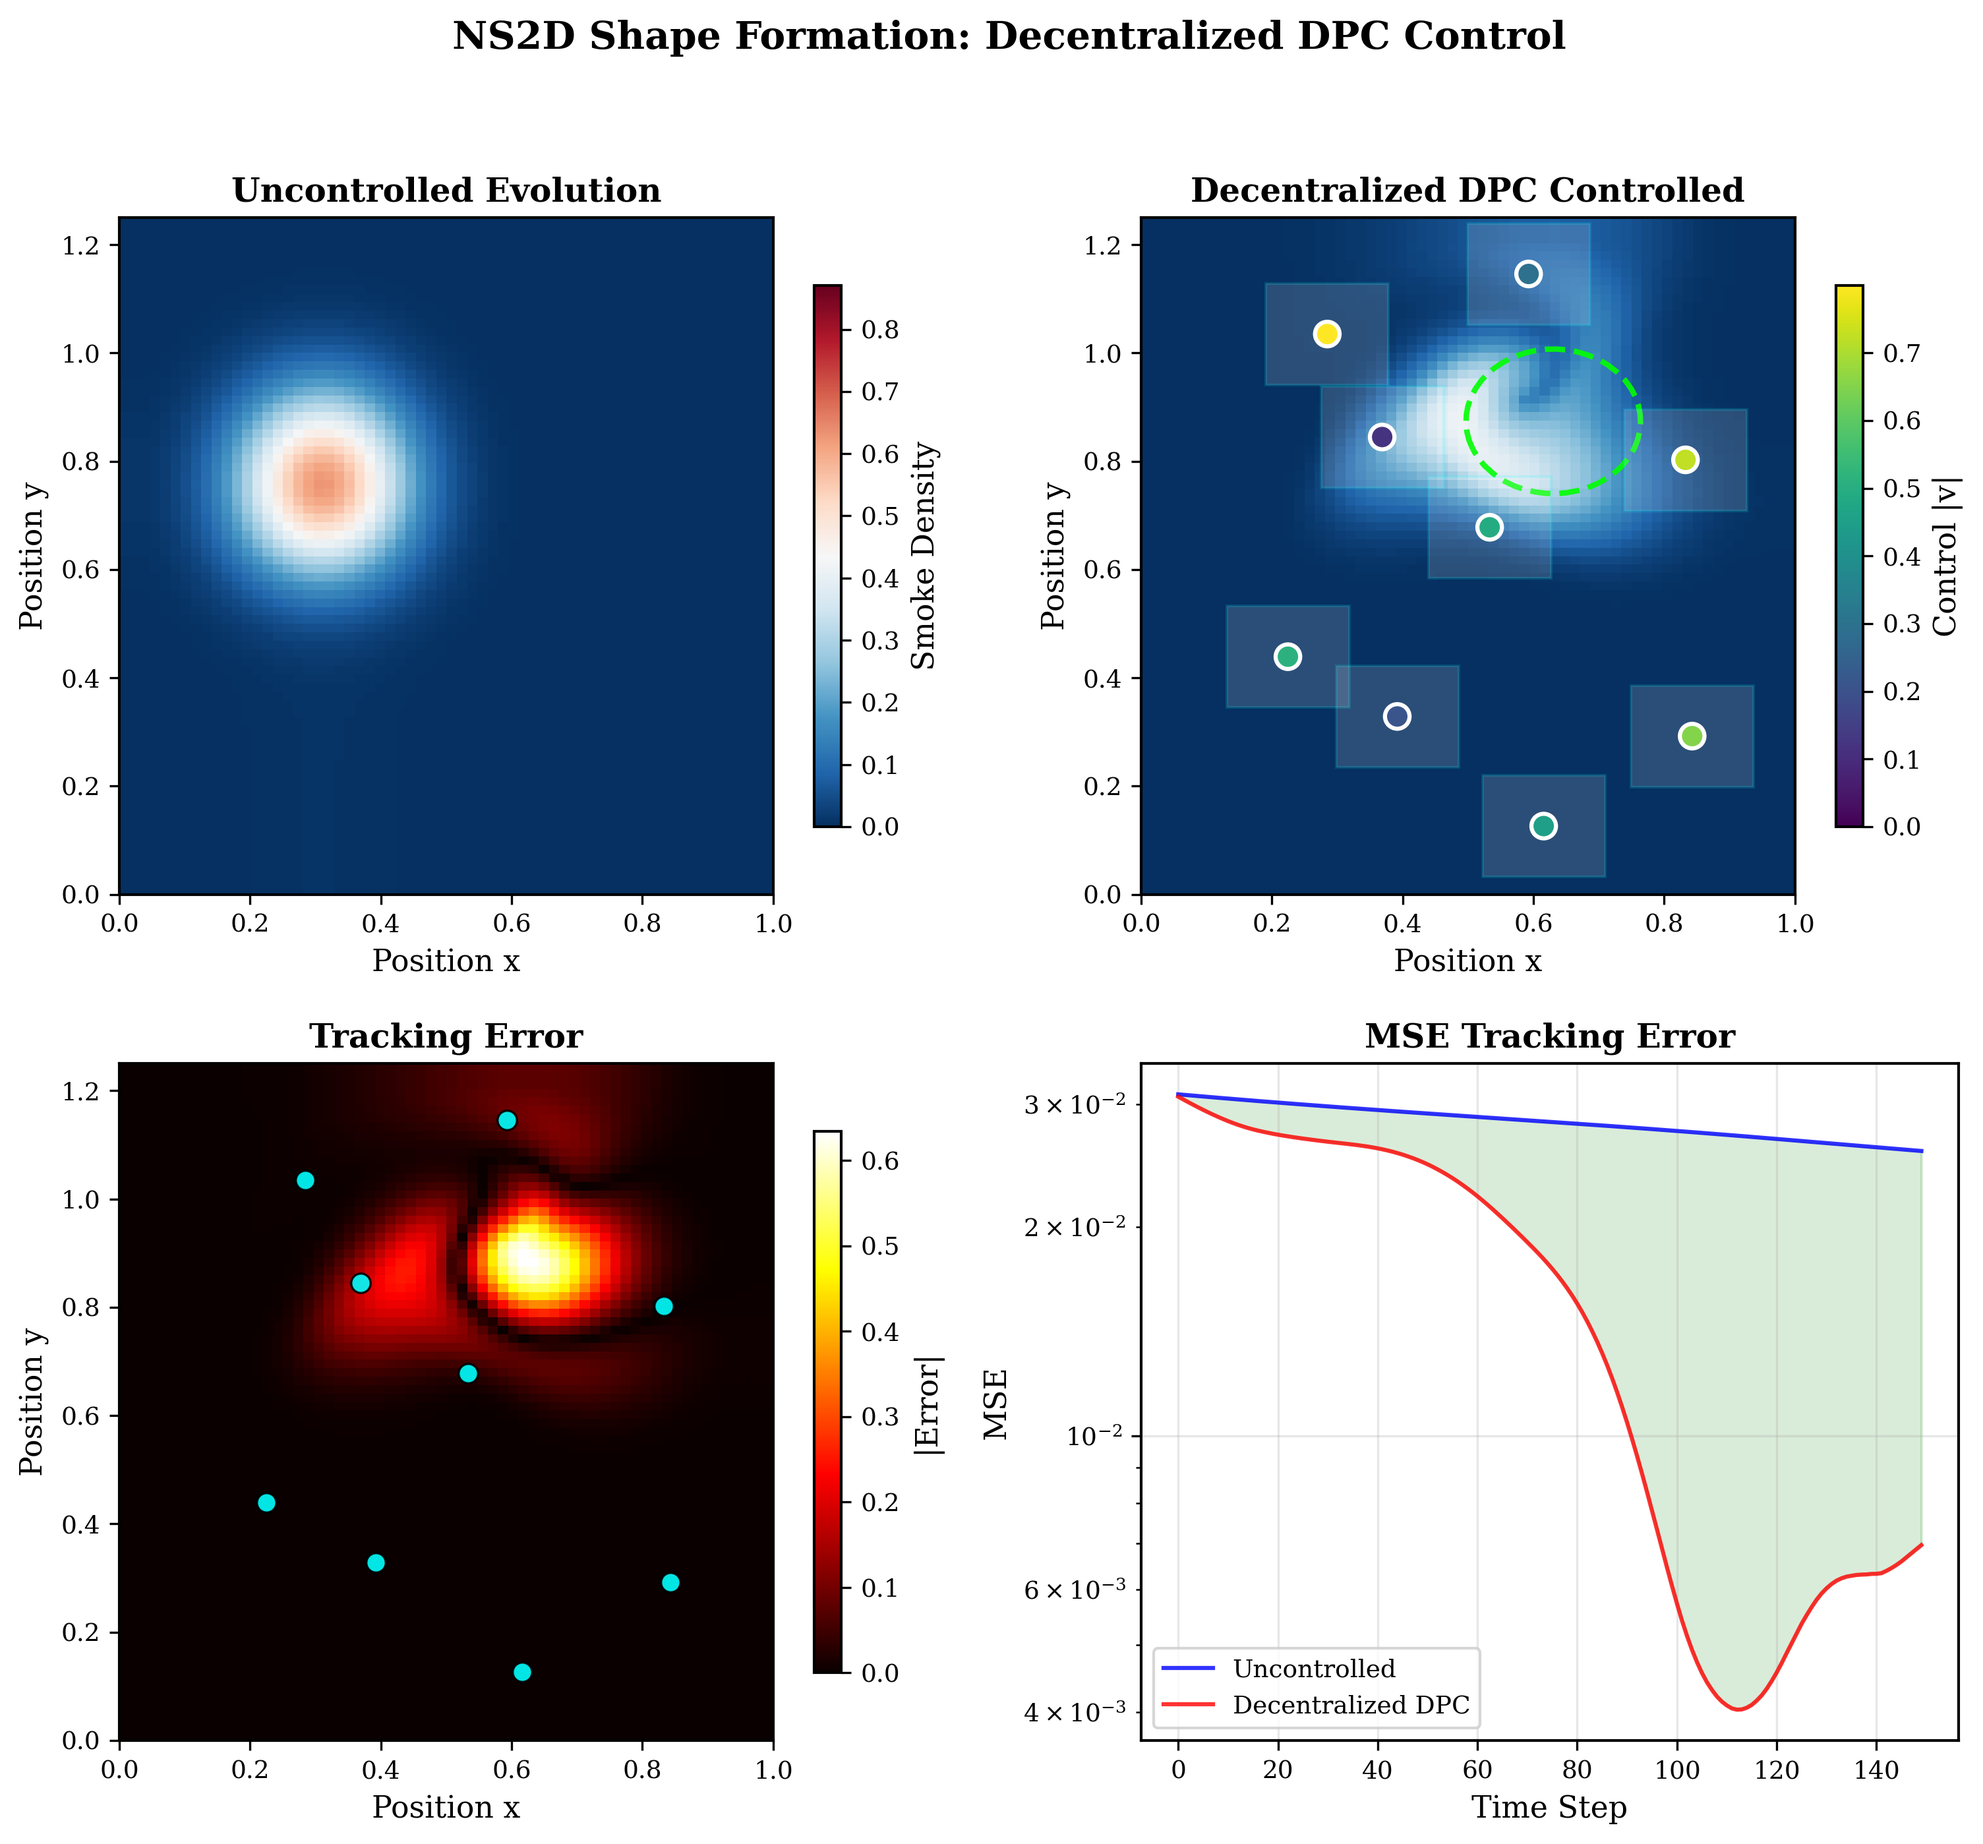
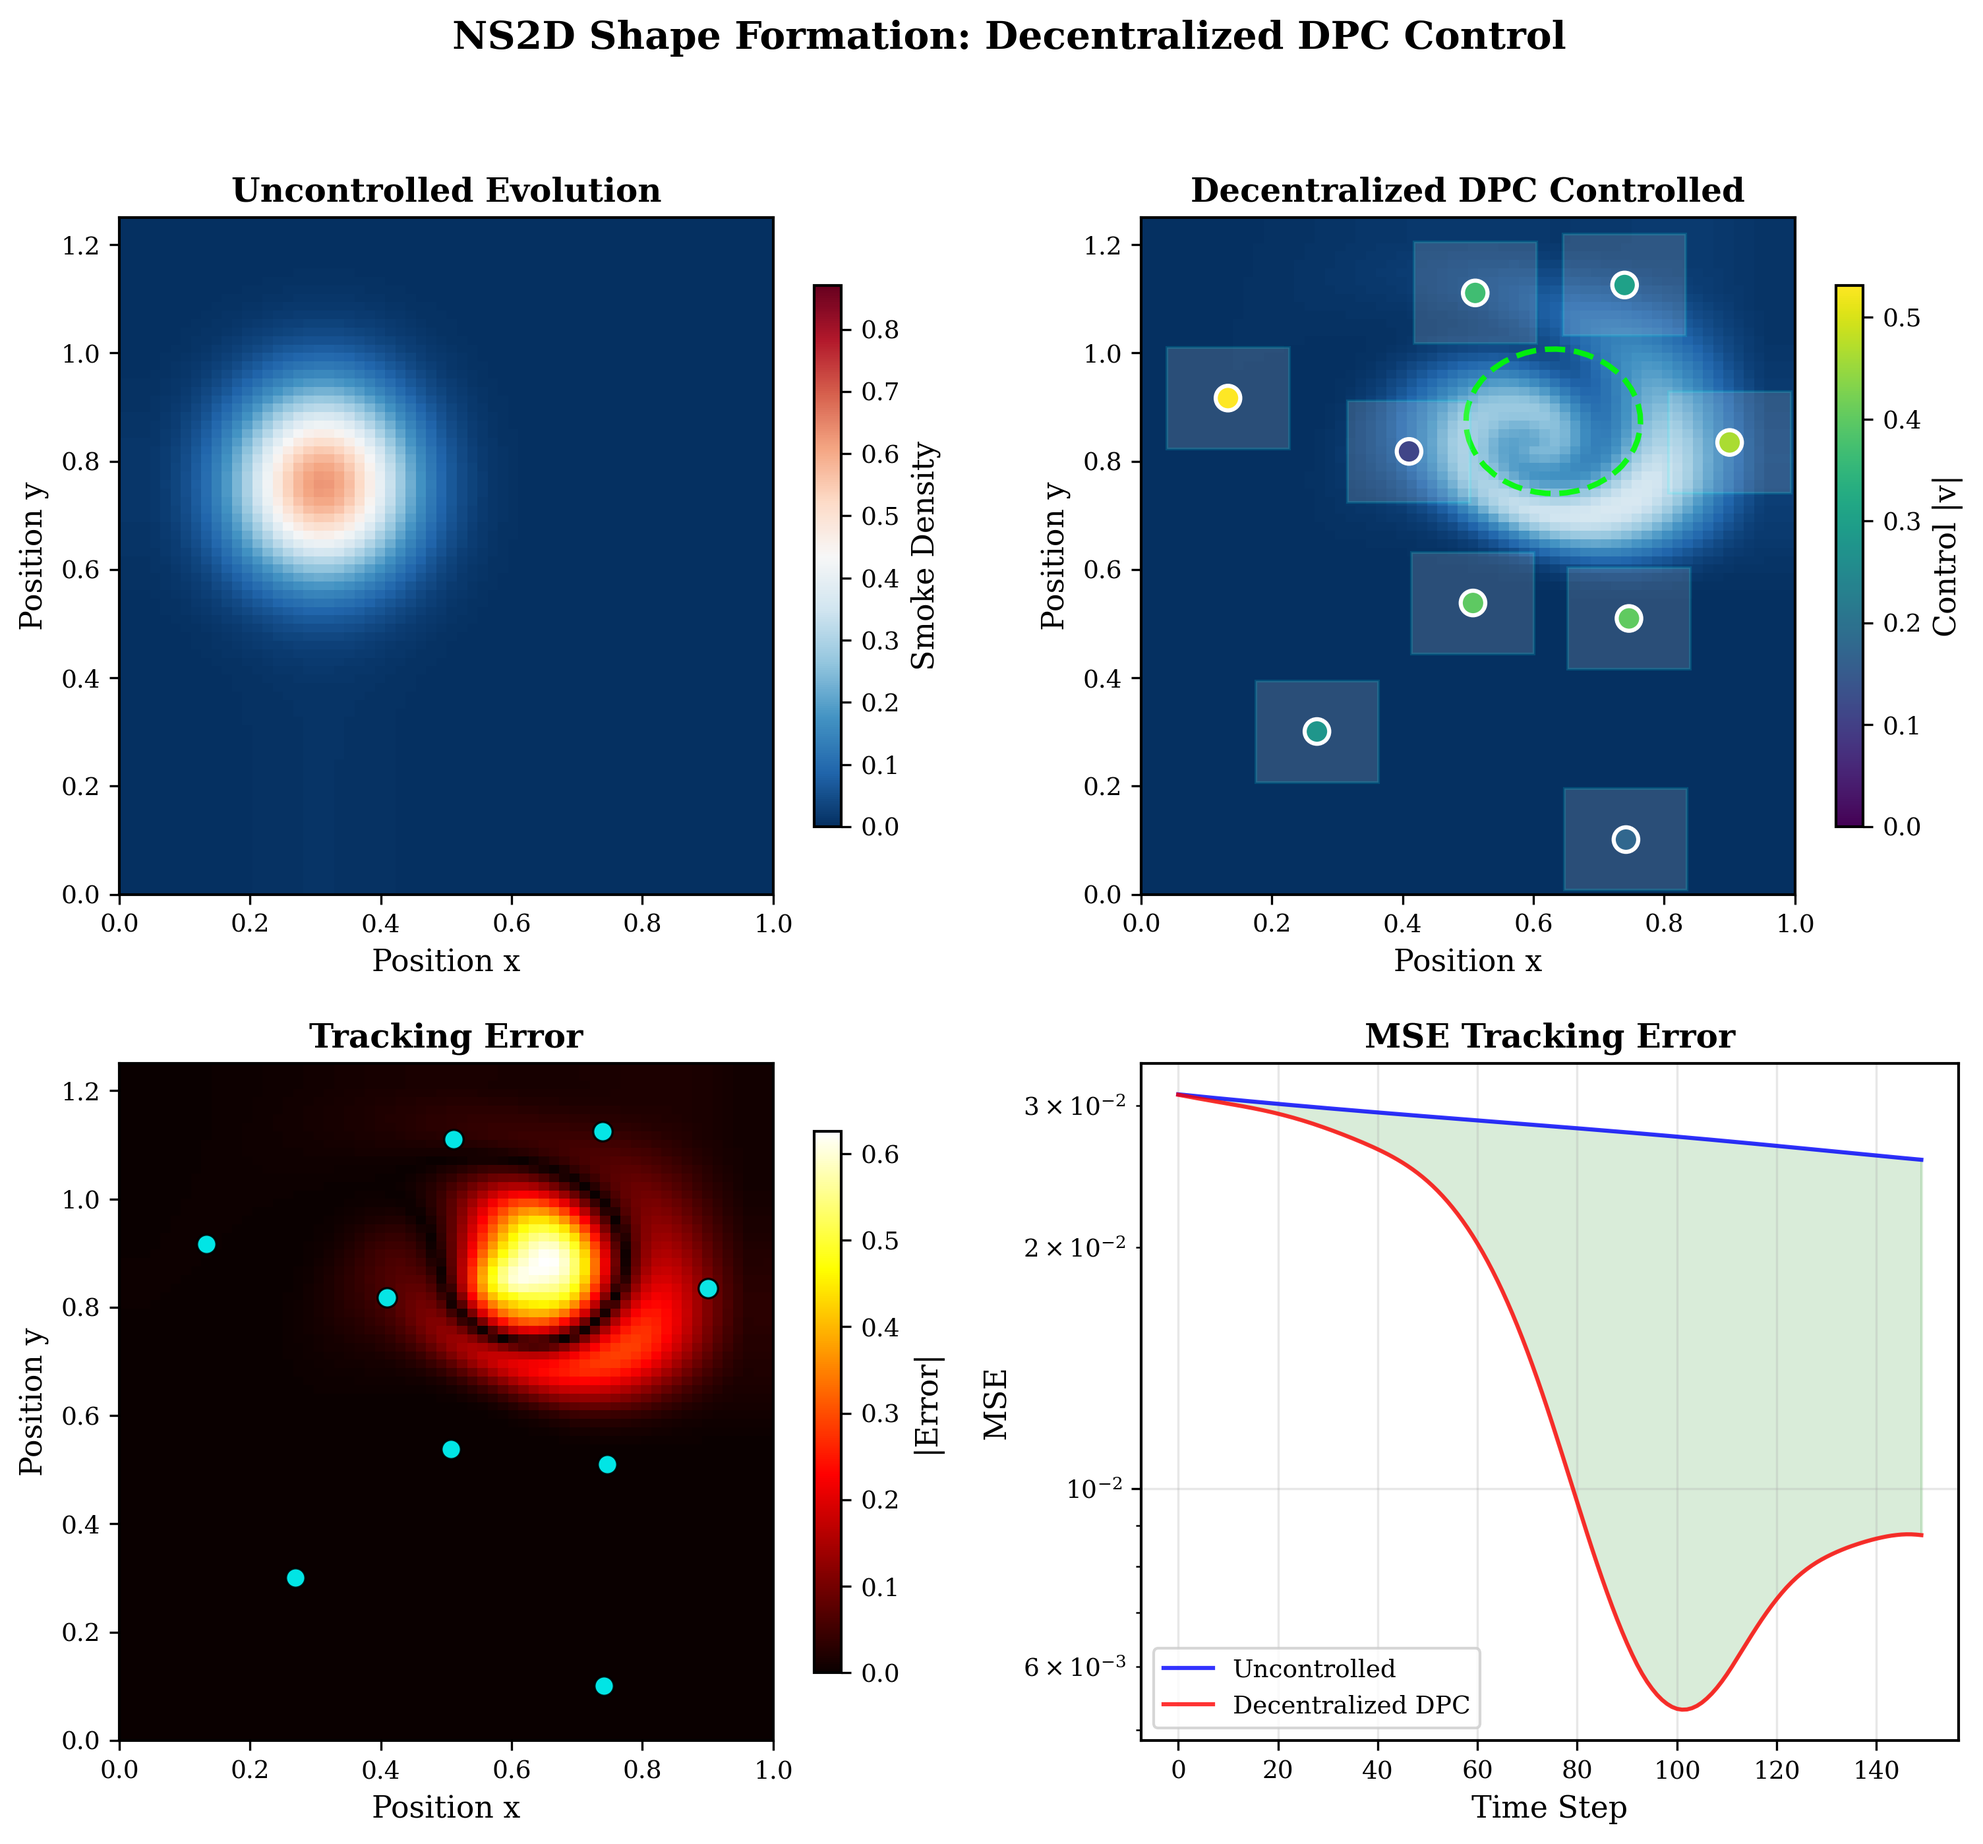
Update density decentralized: tuned loss weights and imports

diff --git a/examples/density/decentralized/train.py b/examples/density/decentralized/train.py
@@ -27,7 +27,7 @@ from tqdm import trange, tqdm
 import flax.serialization
 import numpy as np
 
-from examples.ns2d.decentralized.dynamics import unroll_with_full_loss, unroll_controlled
+from examples.density.decentralized.dynamics import unroll_with_full_loss, unroll_controlled
 from models.policy_ns2d import DecentralizedNS2DControlNet
 
 
@@ -52,12 +52,12 @@ FEATURES = (32, 32, 64)  #(32, 32, 64)# CNN feature channels - keep same
 PATCH_SIZE = 12      
 
 # Loss weights
-W_HOLD = 3.0      #3   # TERMINAL: smoke must stay at target (time-weighted Wasserstein)
-W_COLL = 10.0         # Avoid other agents
+W_HOLD = 4.0      #3   # TERMINAL: smoke must stay at target (time-weighted Wasserstein)
+W_COLL = 14.0         # Avoid other agents
 W_BOUND = 10.0        # Stay in domain
 W_SMOOTH = 0.1        # Velocity smoothness
 W_EFFORT = 0.001      # Control energy
-W_MASS = 5.0        #5 # Preserve smoke mass #30
+W_MASS = 6.0        #5 # Preserve smoke mass #30
 R_SAFE = 0.15         # Safe radius for collision
 
 

diff --git a/examples/density/decentralized/visualize.py b/examples/density/decentralized/visualize.py
@@ -21,8 +21,8 @@ from matplotlib.colors import Normalize
 from matplotlib.cm import ScalarMappable
 import flax.serialization
 
-from examples.ns2d.decentralized.dynamics import unroll_controlled, ns2d_step_jax
-from examples.ns2d.decentralized.train import (
+from examples.density.decentralized.dynamics import unroll_controlled, ns2d_step_jax
+from examples.density.decentralized.train import (
     N_AGENTS, T_STEPS, PUSH_MAX, SIGMA_PUSH, BUOYANCY, FEATURES, PATCH_SIZE
 )
 from models.policy_ns2d import DecentralizedNS2DControlNet
